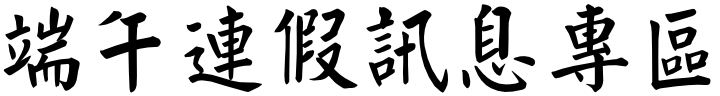
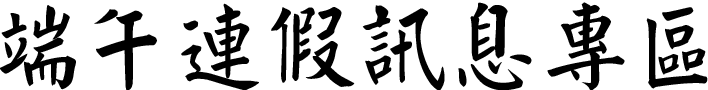
微調

diff --git a/mp_端午.html b/mp_端午.html
@@ -17,7 +17,7 @@
   <header class="header" style="background-image:url(publicData/header-端午.png);"><a class="accesskey" href="#aU" id="aU" accesskey="U" title="網站標題區">:::</a>
     <h1><a href="#"><img src="publicData/h1-端午.png" alt="端午連假訊息專區"></a></h1>
     <style>
-      @media screen and (min-width:1000px) {.header>h1 img{width:360px;margin:8px 0 0 30px;}}
+      @media screen and (min-width:1000px) {.header>h1 img{width:354px;margin:8px 0 0 30px;}}
     </style>
     <nav class="navigation">
       <ul>
